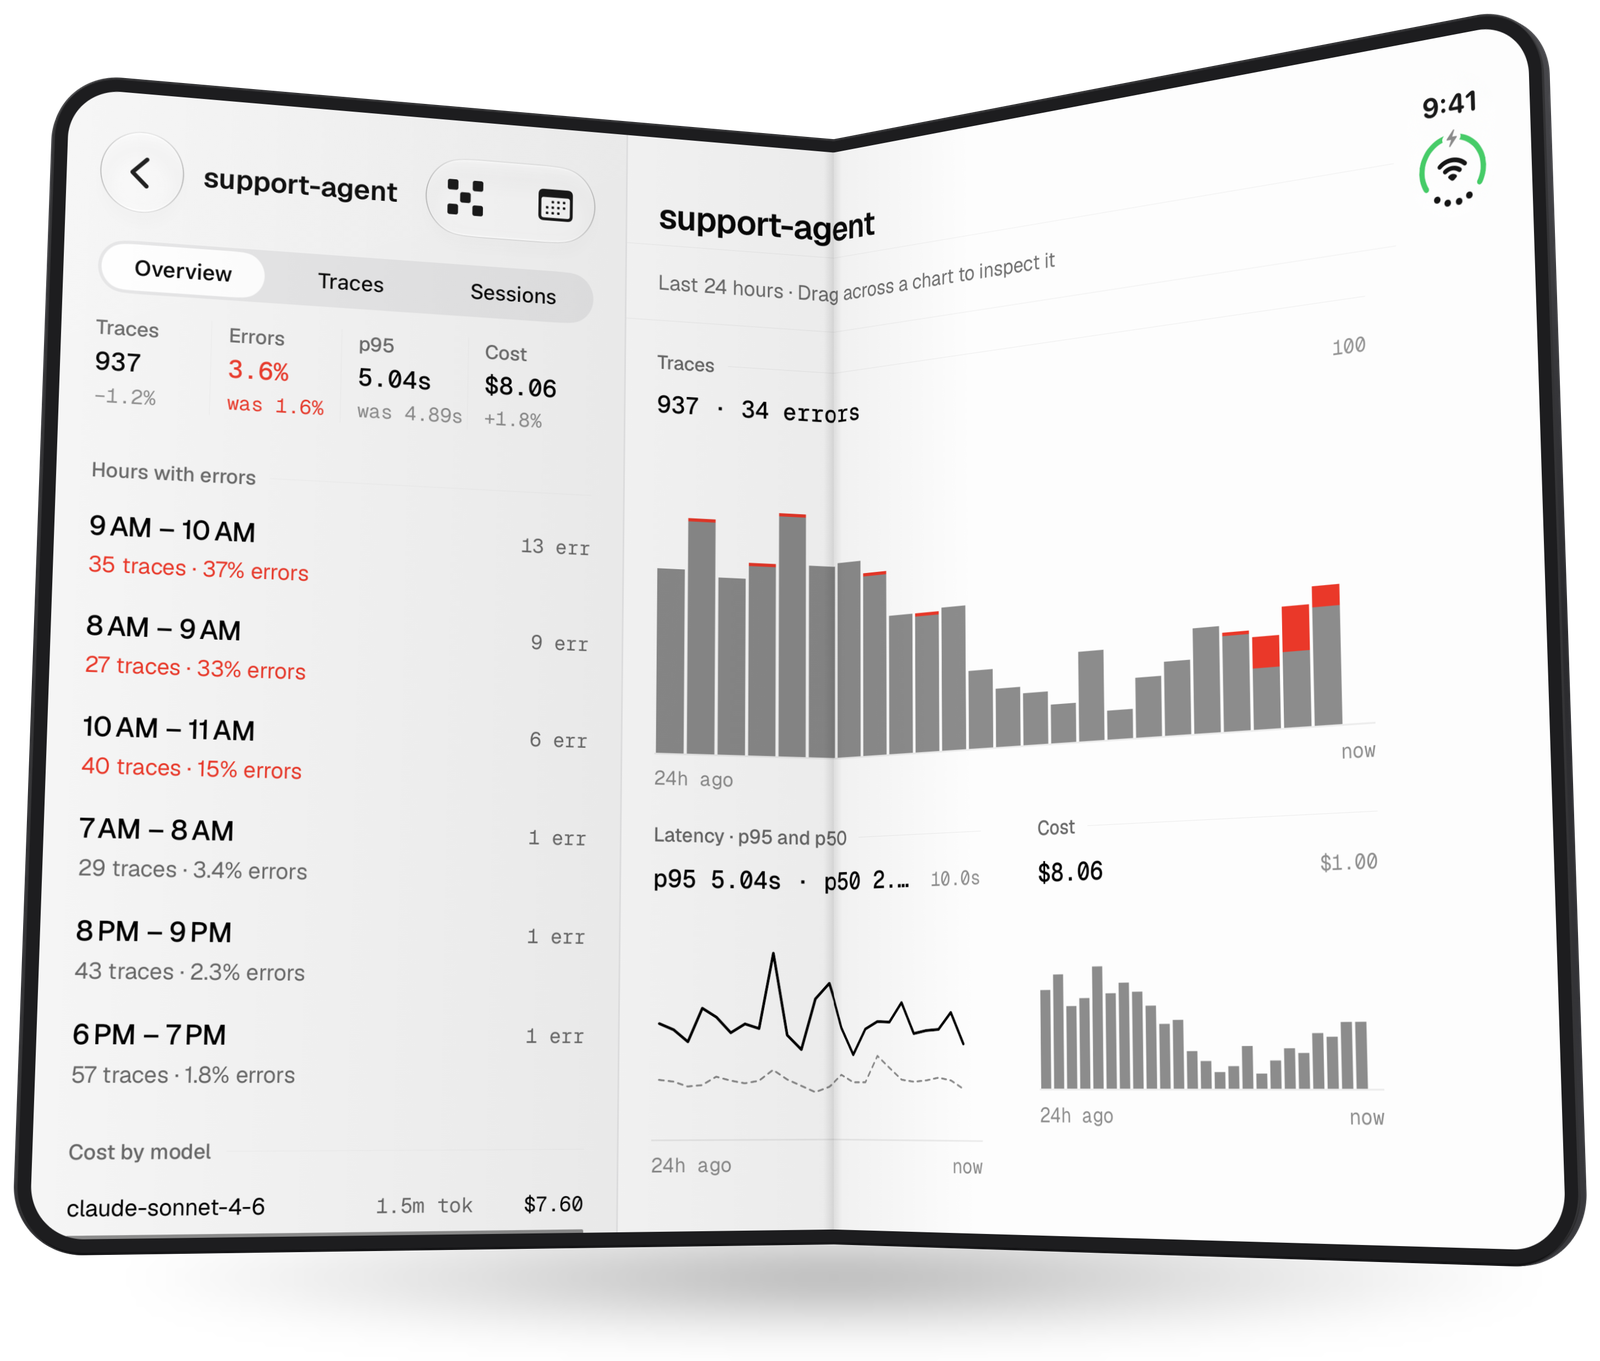
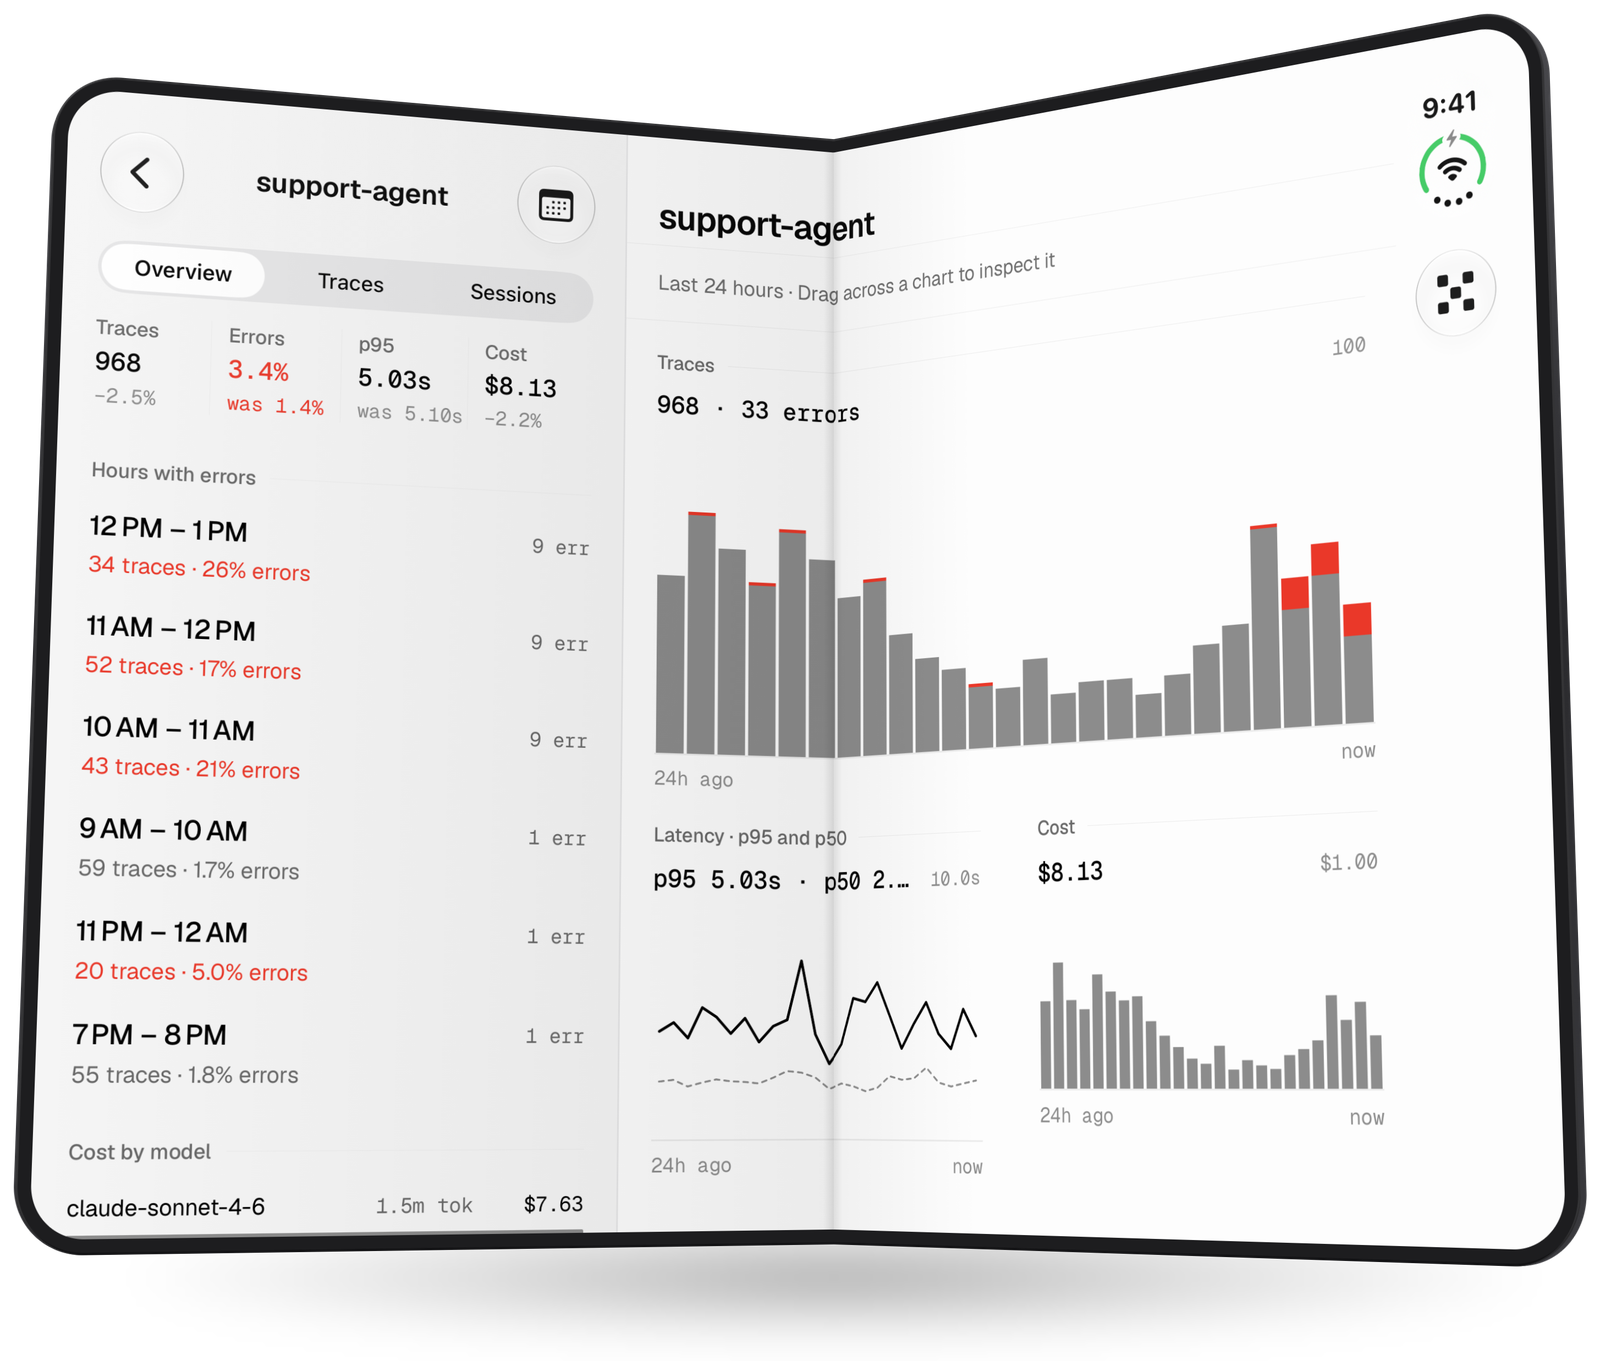
Keep PXI in one place on the open split: the detail column's bar
Every sidebar and detail screen added the PXI bar item, so the open iPhone
Duo showed it above the sidebar and again in the vertical bar once a trace
or session was selected. Apple's iPhone Duo guidance keeps controls with the
content they affect and in the same place across poses, and PXI is app-wide
with a panel that slides in from the trailing edge. An expanded split now
drops the item from sidebar bars by its identifier and shows it only in the
detail column's bar, including on the empty detail screen and the overview
board. A collapsed split keeps it on the sidebar, which is then the whole
window, so it stays in the vertical bar whether the device is open or
closed.

The README renders are retaken from fresh demo data with the new placement.

diff --git a/src/components/duo/split-stack.tsx b/src/components/duo/split-stack.tsx
@@ -32,6 +32,7 @@ import type {
 import type { NativeStackNavigationOptions } from 'expo-router/native-stack';
 
 import { PxiChat, type PxiChatHandle } from '@/components/chat/pxi-chat';
+import { PxiBarItemId, usePxiHeaderOptions } from '@/components/pxi-header-button';
 import { ProjectOverviewBoard } from '@/components/overview/project-overview';
 import { EmptyState } from '@/components/ui/empty-state';
 import { type Surface, SurfaceContext, useAppColors } from '@/constants/theme';
@@ -51,7 +52,7 @@ import { SplitDetailContext, type SplitDetail } from '@/features/duo/split-detai
 import { usePxiPaneStore } from '@/features/pxi/pane-store';
 import { useMetricsSupported } from '@/hooks/use-phoenix-metrics';
 import { isJsonObject, isJsonString } from '@/lib/json';
-import { useInstanceStore } from '@/store/instances';
+import { useActiveInstance, useInstanceStore } from '@/store/instances';
 
 import { barButton, ColumnHeader } from './column-header';
 import { PxiFloatingPanel } from './pxi-floating-panel';
@@ -194,6 +195,8 @@ function SplitColumns({
     store.instances.find((candidate) => candidate.id === pxiInstanceId),
   );
 
+  const activeInstance = useActiveInstance();
+  const pxiHeader = usePxiHeaderOptions(activeInstance);
   const primaryScreens = useRetainedScreens(sidebar, descriptors);
   const detailScreens = useRetainedScreens(detail, descriptors);
 
@@ -269,7 +272,13 @@ function SplitColumns({
     if (action) dispatch(action);
   };
 
-  const columnScreen = (route: Route, index: number, attached: boolean, surface: Surface) => {
+  const columnScreen = (
+    route: Route,
+    index: number,
+    attached: boolean,
+    surface: Surface,
+    omitItem?: string,
+  ) => {
     const descriptor =
       descriptors[route.key] ??
       primaryScreens.descriptor(route.key) ??
@@ -284,6 +293,7 @@ function SplitColumns({
         descriptor={descriptor}
         emit={emit}
         key={route.key}
+        omitItem={omitItem}
         onAppearance={followCollapsed}
         onDismiss={handleDismiss}
         routeKey={route.key}
@@ -363,6 +373,8 @@ function SplitColumns({
                   sidebarKeys.has(route.key),
                   // Collapsed, the sidebar is the whole window, so it is a page.
                   collapsedState ? 'page' : 'sidebar',
+                  // Expanded, PXI lives only in the detail column's bar.
+                  collapsedState ? undefined : PxiBarItemId,
                 ),
               )}
             </Split.Stack>
@@ -373,7 +385,9 @@ function SplitColumns({
                 activityMode={detail.length === 0 && !collapsedState ? 'attached' : 'detached'}
                 screenKey="split-empty-detail"
               >
-                <ColumnHeader canGoBack={false} options={{ title: '' }} />
+                {/* PXI stays in this column's bar while nothing is selected, so it
+                  never moves between the sidebar and the window edge. */}
+                <ColumnHeader canGoBack={false} options={{ title: '', ...pxiHeader }} />
                 <ColumnContent>
                   {showBoard && overviewProject ? (
                     <ProjectOverviewBoard
@@ -563,6 +577,7 @@ function ColumnScreen({
   canGoBack,
   descriptor,
   emit,
+  omitItem,
   onAppearance,
   onDismiss,
   routeKey,
@@ -573,6 +588,7 @@ function ColumnScreen({
   canGoBack: boolean;
   descriptor: Descriptor;
   emit: Emit;
+  omitItem?: string;
   onAppearance: (type: 'willAppear' | 'didAppear' | 'willDisappear', key: string) => void;
   onDismiss: (key: string, native: boolean) => void;
   routeKey: string;
@@ -599,7 +615,7 @@ function ColumnScreen({
       screenKey={routeKey}
     >
       <SurfaceContext value={surface}>
-        <ColumnHeader canGoBack={canGoBack} options={descriptor.options} />
+        <ColumnHeader canGoBack={canGoBack} omitItem={omitItem} options={descriptor.options} />
         <ColumnContent>{descriptor.render()}</ColumnContent>
       </SurfaceContext>
     </Split.Screen>

diff --git a/src/components/duo/column-header.tsx b/src/components/duo/column-header.tsx
@@ -174,16 +174,26 @@ function convertItems(items: NativeStackHeaderItem[], prefix: string): HeaderIte
  */
 export function ColumnHeader({
   canGoBack,
+  omitItem,
   options,
 }: {
   canGoBack: boolean;
+  /** The identifier of a trailing item another column's bar shows instead. */
+  omitItem?: string;
   options: NativeStackNavigationOptions;
 }) {
   const colors = useAppColors();
   const surface = use(SurfaceContext);
   const itemProps = { tintColor: options.headerTintColor, canGoBack };
   const leading = convertItems(options.unstable_headerLeftItems?.(itemProps) ?? [], 'leading');
-  const trailing = convertItems(options.unstable_headerRightItems?.(itemProps) ?? [], 'trailing');
+
+  const trailing = convertItems(
+    (options.unstable_headerRightItems?.(itemProps) ?? []).filter(
+      (item) => omitItem === undefined || !('identifier' in item) || item.identifier !== omitItem,
+    ),
+    'trailing',
+  );
+
   const left = options.headerLeft?.(itemProps);
   const right = options.headerRight?.(itemProps);
 

diff --git a/src/components/pxi-header-button.tsx b/src/components/pxi-header-button.tsx
@@ -13,6 +13,12 @@ import { PxiGlyph } from './pxi-glyph';
 
 const pxiGlyphTemplate = require('@/assets/images/pxi-glyph.png');
 
+/**
+ * Identifies the PXI bar item, so the open split can keep it in one place:
+ * the trailing column's bar, beside the edge the PXI panel opens from.
+ */
+export const PxiBarItemId = 'pxi';
+
 type ScreenOptions = Exclude<
   NonNullable<ComponentProps<typeof Stack.Screen>['options']>,
   (...args: never[]) => object
@@ -77,6 +83,7 @@ export function usePxiHeaderOptions(
       unstable_headerRightItems: () => [
         barButton({
           type: 'button',
+          identifier: PxiBarItemId,
           accessibilityLabel,
           icon: { type: 'image', source: pxiGlyphTemplate },
           label,

diff --git a/docs/iphone-duo.md b/docs/iphone-duo.md
@@ -40,7 +40,7 @@ Without the native module (Android, Expo Go) the window width decides the size c
 
 ## Bar items
 
-Actions are native header items so iPhone Duo can stack them in its vertical bar. Build them with `barButton` from `src/components/duo/column-header.tsx` and give each an SF Symbol, a label (shown in the overflow menu), and a `visibilityPriority` (`low` items overflow first). A custom glyph must come from the asset catalog (`xcasset`, added by a config plugin such as `plugins/with-pxi-glyph.js`); an image source loads after every navigation and flashes the label first. Trailing items stack from the bar's far end, so the last item sits at the top of a vertical bar. The items on each screen are listed in `docs/design.md`. Android keeps its pressables.
+Actions are native header items so iPhone Duo can stack them in its vertical bar. Build them with `barButton` from `src/components/duo/column-header.tsx` and give each an SF Symbol, a label (shown in the overflow menu), and a `visibilityPriority` (`low` items overflow first). A custom glyph must come from the asset catalog (`xcasset`, added by a config plugin such as `plugins/with-pxi-glyph.js`); an image source loads after every navigation and flashes the label first. Trailing items stack from the bar's far end, so the last item sits at the top of a vertical bar. Following the HIG's rule that controls stay with the content they affect, an expanded split keeps the sidebar's bar for the list's controls (range, filters, Settings) and shows PXI only in the detail column's bar, the window edge the PXI panel slides in from; the empty detail screen and the overview board carry it too, so it never moves between columns. Collapsed, the sidebar is the whole window and keeps PXI in the vertical bar, the same place as on the open device. The items on each screen are listed in `docs/design.md`. Android keeps its pressables.
 
 ## Sheets
 

diff --git a/FINDINGS.md b/FINDINGS.md
@@ -13,6 +13,15 @@ This is the project's living technical memory. Record discoveries that would oth
 
 ## Active Constraints
 
+### 2026-11-12 - PXI Has One Place In An Expanded Split: The Detail Column's Bar
+
+**Status:** Decision
+**Area:** iPhone Duo, iPad, bar items, `SplitStack`
+
+Every sidebar screen and every detail screen added the PXI bar item, so the open Duo showed it twice once a trace or session was selected (above the sidebar and in the vertical bar), and only above the sidebar while nothing was. Apple's "Designing for iPhone Duo" (read 2026-11-12 through `developer.apple.com/tutorials/data/design/human-interface-guidelines/designing-for-iphone-duo.json`; the HTML page renders client-side) says controls belonging to a content area other than the trailing one stay with that area (Mail's list controls stay above the leading pane), that controls keep their relative positions across poses, and to use the system overflow menu "so people find everything in one place". It says nothing about app-wide actions or about one action in two bars. PXI is app-wide and its panel slides in from the trailing edge, so an expanded split now shows it only in the detail column's bar: sidebar headers drop the item by its `PxiBarItemId` identifier (`ColumnHeader`'s `omitItem`), and the empty detail screen and the overview board carry it. A collapsed split keeps it on the sidebar, which is then the whole window, so PXI stays in the vertical bar whether the device is open or closed.
+
+**Implication:** Add PXI to a screen's items as before (`usePxiHeaderOptions`); the split decides which column shows it. Give other app-wide actions an identifier and the same treatment rather than repeating them in both bars.
+
 ### 2026-11-10 - Swipe Actions In A Form Sheet Do Not Cancel The Row's Press
 
 **Status:** Resolved

diff --git a/docs/design.md b/docs/design.md
@@ -63,7 +63,7 @@ Rows use `MiniBars` for a project's last day of traffic (errors on top in `dange
 
 ## Bar items
 
-Build items with `barButton`, and menus with `barMenu`, from `src/components/duo/column-header.tsx`. Every item needs an SF Symbol, a label (shown in the overflow menu), and a `visibilityPriority`. Trailing items stack from the far end, so **the last item sits at the top of a vertical bar**: put PXI last. Fold rarely used actions into a `More` menu (`ellipsis.circle`, `visibilityPriority: 'low'`). A filter menu's icon switches to its `.fill` variant when the view differs from the default. Android keeps pressables.
+Build items with `barButton`, and menus with `barMenu`, from `src/components/duo/column-header.tsx`. Every item needs an SF Symbol, a label (shown in the overflow menu), and a `visibilityPriority`. Trailing items stack from the far end, so **the last item sits at the top of a vertical bar**: put PXI last. Fold rarely used actions into a `More` menu (`ellipsis.circle`, `visibilityPriority: 'low'`). In an expanded split (the open Duo, iPad), PXI lives only in the detail column's bar, including while nothing is selected; the sidebar's bar keeps the list's own controls. Screens still add PXI to their items, and the split drops it from sidebar bars by its `PxiBarItemId` identifier. A filter menu's icon switches to its `.fill` variant when the view differs from the default. Android keeps pressables.
 
 | Screen                 | Items (first to last)                                    |
 | ---------------------- | -------------------------------------------------------- |
